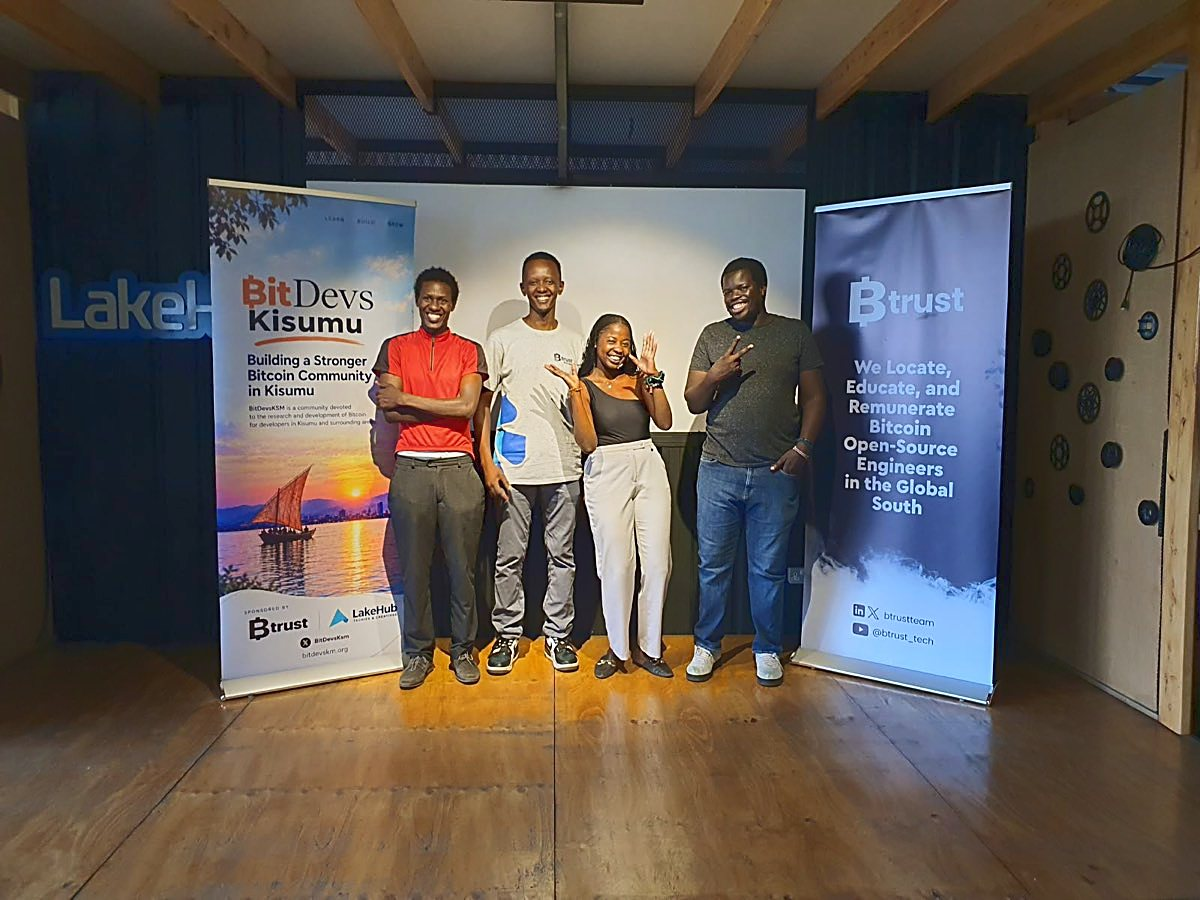
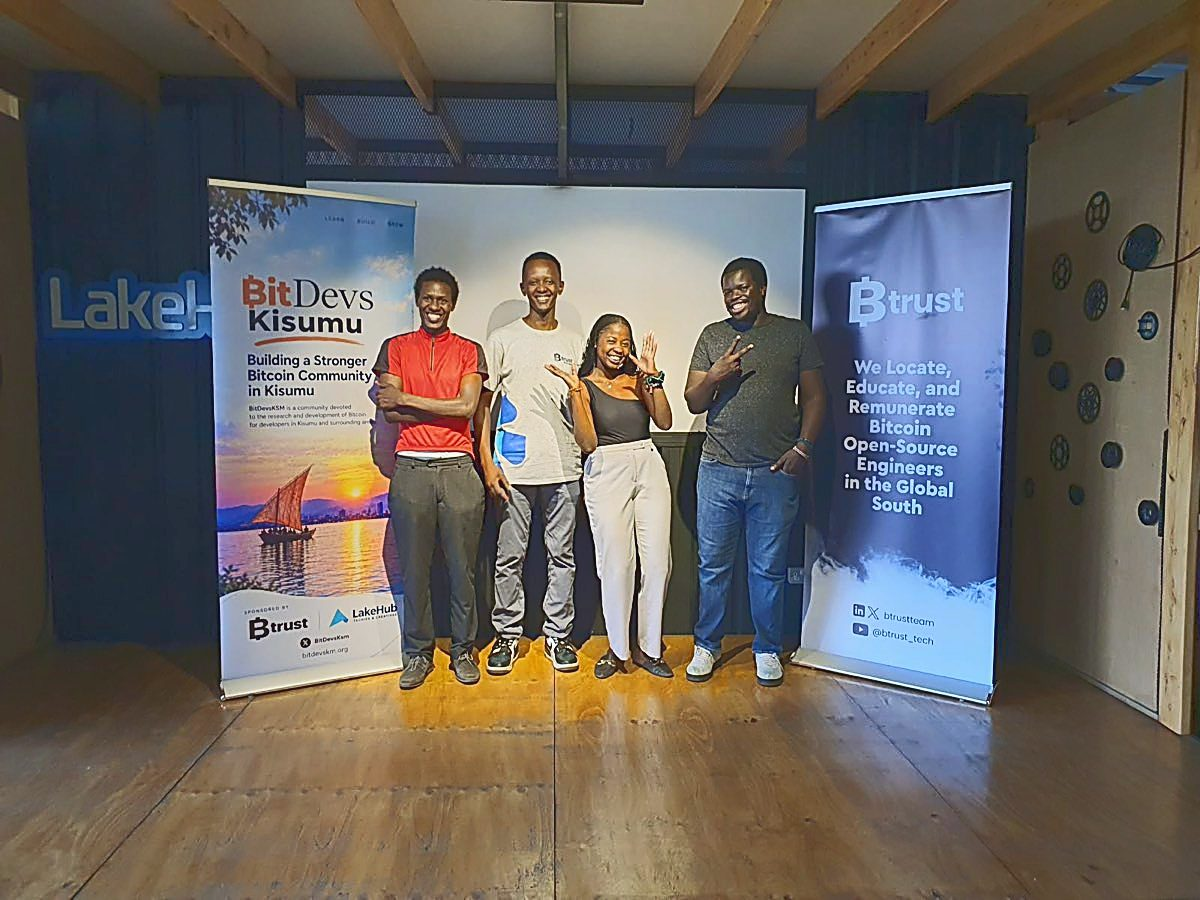
Friends: retouch group photos and polish page UI (#344)

diff --git a/friends.html b/friends.html
@@ -68,24 +68,24 @@ h3{font:800 1.15rem/1.25 'Bricolage Grotesque',sans-serif;margin:0}
 @media (prefers-reduced-motion:reduce){*,*::before,*::after{animation:none!important;transition:none!important;scroll-behavior:auto!important}}
 @media (prefers-reduced-motion:no-preference){html{scroll-behavior:smooth}.top,.tabs{transition:box-shadow .25s ease}body.scrolled .top,body.scrolled .tabs{box-shadow:0 8px 22px -12px rgba(15,27,45,.45)}.btn,.topnav a{transition:background-color .18s ease,color .18s ease,box-shadow .18s ease}.cards .links a,.more a,.foot nav a,.pager a{transition:color .18s ease}.more a{display:inline-block;transition:transform .18s ease,color .18s ease}.more a:hover{transform:translateX(4px)}details{interpolate-size:allow-keywords}details::details-content{transition:height .25s ease}}
 .photo{margin:0 0 1rem;max-width:56rem}
-.photo img{display:block;width:100%;height:auto;border-radius:1rem;border:2px solid var(--ink);box-shadow:0 18px 40px -18px rgba(15,27,45,.35);background:var(--ink)}
+.photo img{display:block;width:100%;height:auto;border-radius:1.25rem;border:2px solid var(--ink);box-shadow:0 1px 2px rgba(15,27,45,.18),0 24px 48px -24px rgba(15,27,45,.38);background:var(--ink)}
 .photo .credit{white-space:nowrap}
-.photo figcaption{color:var(--muted);font-size:.95rem;margin-top:.6rem;max-width:46rem}
+.photo figcaption{color:var(--muted);font-size:.95rem;line-height:1.5;margin:.5rem 0 0;max-width:46rem}
 .photo.mid{margin-top:2rem}
 .friends{list-style:none;padding:0;margin:0;display:grid;grid-template-columns:repeat(auto-fit,minmax(18rem,1fr));gap:1rem}
-.friends>li{background:var(--paper);border:2px solid var(--ink);border-radius:1rem;padding:1.1rem;display:flex;flex-direction:column;gap:.6rem;box-shadow:0 10px 24px -18px rgba(15,27,45,.35)}
+.friends>li{background:var(--paper);border:2px solid var(--ink);border-radius:1rem;padding:1.1rem;display:flex;flex-direction:column;gap:.6rem;box-shadow:0 1px 2px rgba(15,27,45,.12),0 12px 28px -20px rgba(15,27,45,.35)}
 .friends>li:hover{box-shadow:5px 5px 0 var(--ink)}
 .friends .who{display:flex;align-items:center;gap:.8rem}
-.friends .who img{width:56px;height:56px;border-radius:.8rem;border:1px solid var(--line);background:#fff;flex:none;object-fit:contain;padding:3px}
+.friends .who img{width:56px;height:56px;border-radius:.8rem;border:1px solid var(--line);background:#fff;flex:none;object-fit:contain;padding:4px}
 .friends .role{font-size:.8rem;font-weight:700;color:var(--btc-text);text-transform:uppercase;letter-spacing:.04em}
 .friends p{margin:0;color:var(--muted);font-size:.97rem}
 .links{display:flex;flex-wrap:wrap;gap:.3rem 1rem;font-weight:600;margin-top:auto}
 .two{display:grid;grid-template-columns:repeat(auto-fit,minmax(18rem,1fr));gap:1rem}
-.side{background:var(--paper);border:2px solid var(--ink);border-radius:1rem;padding:1.1rem;display:flex;flex-direction:column;gap:.5rem;box-shadow:0 10px 24px -18px rgba(15,27,45,.35)}
+.side{background:var(--paper);border:2px solid var(--ink);border-radius:1rem;padding:1.1rem;display:flex;flex-direction:column;gap:.5rem;box-shadow:0 1px 2px rgba(15,27,45,.12),0 12px 28px -20px rgba(15,27,45,.35)}
 .side:hover{box-shadow:5px 5px 0 var(--ink)}
-@media (prefers-reduced-motion:no-preference){.friends>li,.side{transition:box-shadow .18s ease}}
+@media (prefers-reduced-motion:no-preference){.friends>li,.side{transition:box-shadow .18s ease,transform .18s ease}.friends>li:hover,.side:hover{transform:translateY(-2px)}}
 .side h3{display:flex;align-items:center;gap:.5rem;font-size:1.25rem}
-.side h3 img{border-radius:.5rem;border:1px solid var(--line);background:#fff;padding:2px}
+.side h3 img{border-radius:.5rem;border:1px solid var(--line);background:#fff;padding:4px}
 .side p{margin:0;color:var(--muted)}
 .side .tag{align-self:flex-start}
 .sm{font-size:.92rem}
@@ -99,7 +99,7 @@ h3{font:800 1.15rem/1.25 'Bricolage Grotesque',sans-serif;margin:0}
 </head>
 <body>
 <div class="wrap">
-  <div class="top"><a href="/" aria-label="Altradits home"><img src="/assets/logo.png" alt="Altradits" width="325" height="119"></a><nav class="topnav" aria-label="Main"><a href="/library">Library</a><a href="/friends" aria-current="page">Friends</a><a class="launch" href="/yebente">Open Ye₿ente</a></nav></div>
+  <div class="top"><a href="/" aria-label="Altradits home"><img src="/assets/logo.png" alt="Altradits" width="325" height="119" decoding="async"></a><nav class="topnav" aria-label="Main"><a href="/library">Library</a><a href="/friends" aria-current="page">Friends</a><a class="launch" href="/yebente">Open Ye₿ente</a></nav></div>
 
   <header class="hero">
     <h1>The teams behind <em>your wallet.</em></h1>
@@ -113,7 +113,7 @@ h3{font:800 1.15rem/1.25 'Bricolage Grotesque',sans-serif;margin:0}
   </figure>
 
   <h2>Who makes your wallet work</h2>
-  <ul class="friends"><li><div class="who"><img src="/assets/players/btrust.png" alt="Btrust logo" width="56" height="56" loading="lazy"><div><h3>Btrust</h3><span class="role">Backs the learning community</span></div></div><p>Btrust sponsors BitDevs Kisumu, where Ye₿ente's builder learns Bitcoin alongside other developers. Better builders, better wallet.</p><div class="links"><a href="https://www.btrust.tech/">Visit Btrust</a></div></li><li><div class="who"><img src="/assets/players/minmo.png" alt="Minmo logo" width="56" height="56" loading="lazy"><div><h3>Minmo</h3><span class="role">The person-to-person model</span></div></div><p>Minmo's agents help their own communities buy and sell bitcoin, person to person. That is the model for how Ye₿ente spreads. Their team also mentored Ye₿ente's builder into open source.</p><div class="links"><a href="https://minmo.to/">Visit Minmo</a></div></li><li><div class="who"><img src="/assets/players/tando.png" alt="Tando logo" width="56" height="56" loading="lazy"><div><h3>Tando</h3><span class="role">Turns your sats into M-Pesa</span></div></div><p>When you send sats to a phone number or till, Tando's rails carry them the last mile. Every M-Pesa number and till, reachable from your wallet.</p><div class="links"><a href="https://tando.me/">Visit Tando</a></div></li><li><div class="who"><img src="/assets/players/weventure.png" alt="weVenture Hub logo" width="56" height="56" loading="lazy"><div><h3>weVenture Hub</h3><span class="role">Trained your wallet's builder</span></div></div><p>This startup hub in Addis Ababa hosted the Lightning Developer Bootcamp where Ye₿ente's builder learned routing and channel management: the skills your payments run on.</p><div class="links"><a href="https://weventurehub.com/">Visit weVenture Hub</a></div></li><li><div class="who"><img src="/assets/players/wallet-of-satoshi.png" alt="Wallet of Satoshi logo" width="56" height="56" loading="lazy"><div><h3>Wallet of Satoshi</h3><span class="role">The simplicity bar, and the backup</span></div></div><p>The simplest Lightning wallet in the world. It is also Ye₿ente's fallback when our own node is down, so your payments still go through.</p><div class="links"><a href="https://www.walletofsatoshi.com/">Visit Wallet of Satoshi</a></div></li><li><div class="who"><img src="/assets/players/lakehub.png" alt="LakeHub logo" width="56" height="56" loading="lazy"><div><h3>LakeHub</h3><span class="role">Home of the learning community</span></div></div><p>BitDevs Kisumu meets at LakeHub, which also backs it. Ye₿ente keeps improving there, alongside more than 100 developers.</p><div class="links"><a href="https://lakehub.co.ke/">Visit LakeHub</a></div></li><li><div class="who"><img src="/assets/players/my-first-bitcoin.png" alt="My First Bitcoin logo" width="56" height="56" loading="lazy"><div><h3>My First Bitcoin</h3><span class="role">Free education, worldwide</span></div></div><p>Makers of free Bitcoin education used around the world. In conversation about growing it in Kisumu next, with developers from LakeHub.</p><div class="links"><a href="https://myfirstbitcoin.io/">Visit My First Bitcoin</a></div></li></ul>
+  <ul class="friends"><li><div class="who"><img src="/assets/players/btrust.png" alt="Btrust logo" width="56" height="56" loading="lazy" decoding="async"><div><h3>Btrust</h3><span class="role">Backs the learning community</span></div></div><p>Btrust sponsors BitDevs Kisumu, where Ye₿ente's builder learns Bitcoin alongside other developers. Better builders, better wallet.</p><div class="links"><a href="https://www.btrust.tech/">Visit Btrust</a></div></li><li><div class="who"><img src="/assets/players/minmo.png" alt="Minmo logo" width="56" height="56" loading="lazy" decoding="async"><div><h3>Minmo</h3><span class="role">The person-to-person model</span></div></div><p>Minmo's agents help their own communities buy and sell bitcoin, person to person. That is the model for how Ye₿ente spreads. Their team also mentored Ye₿ente's builder into open source.</p><div class="links"><a href="https://minmo.to/">Visit Minmo</a></div></li><li><div class="who"><img src="/assets/players/tando.png" alt="Tando logo" width="56" height="56" loading="lazy" decoding="async"><div><h3>Tando</h3><span class="role">Turns your sats into M-Pesa</span></div></div><p>When you send sats to a phone number or till, Tando's rails carry them the last mile. Every M-Pesa number and till, reachable from your wallet.</p><div class="links"><a href="https://tando.me/">Visit Tando</a></div></li><li><div class="who"><img src="/assets/players/weventure.png" alt="weVenture Hub logo" width="56" height="56" loading="lazy" decoding="async"><div><h3>weVenture Hub</h3><span class="role">Trained your wallet's builder</span></div></div><p>This startup hub in Addis Ababa hosted the Lightning Developer Bootcamp where Ye₿ente's builder learned routing and channel management: the skills your payments run on.</p><div class="links"><a href="https://weventurehub.com/">Visit weVenture Hub</a></div></li><li><div class="who"><img src="/assets/players/wallet-of-satoshi.png" alt="Wallet of Satoshi logo" width="56" height="56" loading="lazy" decoding="async"><div><h3>Wallet of Satoshi</h3><span class="role">The simplicity bar, and the backup</span></div></div><p>The simplest Lightning wallet in the world. It is also Ye₿ente's fallback when our own node is down, so your payments still go through.</p><div class="links"><a href="https://www.walletofsatoshi.com/">Visit Wallet of Satoshi</a></div></li><li><div class="who"><img src="/assets/players/lakehub.png" alt="LakeHub logo" width="56" height="56" loading="lazy" decoding="async"><div><h3>LakeHub</h3><span class="role">Home of the learning community</span></div></div><p>BitDevs Kisumu meets at LakeHub, which also backs it. Ye₿ente keeps improving there, alongside more than 100 developers.</p><div class="links"><a href="https://lakehub.co.ke/">Visit LakeHub</a></div></li><li><div class="who"><img src="/assets/players/my-first-bitcoin.png" alt="My First Bitcoin logo" width="56" height="56" loading="lazy" decoding="async"><div><h3>My First Bitcoin</h3><span class="role">Free education, worldwide</span></div></div><p>Makers of free Bitcoin education used around the world. In conversation about growing it in Kisumu next, with developers from LakeHub.</p><div class="links"><a href="https://myfirstbitcoin.io/">Visit My First Bitcoin</a></div></li></ul>
 
   <figure class="photo mid">
     <img src="/assets/addis-lightning-bootcamp.jpg" alt="Five developers with laptops talk on wooden steps at the Lightning Developer Bootcamp in Addis Ababa." width="1200" height="799" loading="lazy" decoding="async">
@@ -125,7 +125,7 @@ h3{font:800 1.15rem/1.25 'Bricolage Grotesque',sans-serif;margin:0}
   <div class="two">
     <section class="side">
       <span class="tag">Running · sponsored by Btrust</span>
-      <h3><img src="/assets/players/bitdevs-kisumu.png" alt="" width="40" height="40"> BitDevs Kisumu</h3>
+      <h3><img src="/assets/players/bitdevs-kisumu.png" alt="" width="40" height="40" loading="lazy" decoding="async"> BitDevs Kisumu</h3>
       <p><b>For developers.</b> Socratic seminars on Bitcoin Core pull requests, BIPs and Lightning. Nobody lectures; everyone brings something.</p>
       <p>Co-founded by Ye₿ente's builder, Stanley. Sponsored by Btrust, hosted at LakeHub.</p>
       <p>Stanley's first talk there: <a href="/bitcoin-core">setting up Bitcoin Core</a>, now a free step-by-step guide.</p>
@@ -142,10 +142,10 @@ h3{font:800 1.15rem/1.25 'Bricolage Grotesque',sans-serif;margin:0}
   <h2>Simple, because others showed the way</h2>
   <p class="intro">Ye₿ente is built in Kisumu, learning from teams who made Bitcoin easy to start. Thank you.</p>
   <ul class="friends four">
-    <li><div class="who"><img src="/assets/players/wallet-of-satoshi.png" alt="" width="56" height="56"><div><span class="role">Australia · since 2019</span><br><b><a href="https://www.walletofsatoshi.com/">Wallet of Satoshi</a></b></div></div><p>A Lightning wallet built to be simple: "Bitcoin. Simple." Your first sats in a minute.</p><p><b>For your wallet:</b> the bar for simplicity: open and pay in a minute.</p></li>
-    <li><div class="who"><img src="/assets/players/bitika.png" alt="" width="56" height="56"><div><span class="role">Nairobi, Kenya</span><br><b><a href="https://bitika.xyz/">Bitika</a></b></div></div><p>Buy Bitcoin with shillings over M-Pesa or Airtel, from KES 10, with no account.</p><p><b>For your wallet:</b> the bar for buying small: start with KES 10, not a bank form.</p></li>
-    <li><div class="who"><img src="/assets/players/tando.png" alt="" width="56" height="56"><div><span class="role">Kenya · since 2024</span><br><b><a href="https://tando.me/">Tando</a></b></div></div><p>Turns M-Pesa numbers and tills into Lightning payments, so a Kenyan vendor can be paid in Bitcoin without changing anything.</p><p><b>For your wallet:</b> powers Send Mobile: every M-Pesa number and till.</p></li>
-    <li><div class="who"><img src="/assets/players/minmo.png" alt="" width="56" height="56"><div><span class="role">Kenya · since 2025</span><br><b><a href="https://minmo.to/">Minmo</a></b></div></div><p>Started as a tool for Bitsacco members. Now agents serve their own community, buying and selling Bitcoin with people they know.</p><p><b>For your wallet:</b> the model for spreading: person to person, through people you trust.</p></li>
+    <li><div class="who"><img src="/assets/players/wallet-of-satoshi.png" alt="" width="56" height="56" loading="lazy" decoding="async"><div><span class="role">Australia · since 2019</span><br><b><a href="https://www.walletofsatoshi.com/">Wallet of Satoshi</a></b></div></div><p>A Lightning wallet built to be simple: "Bitcoin. Simple." Your first sats in a minute.</p><p><b>For your wallet:</b> the bar for simplicity: open and pay in a minute.</p></li>
+    <li><div class="who"><img src="/assets/players/bitika.png" alt="" width="56" height="56" loading="lazy" decoding="async"><div><span class="role">Nairobi, Kenya</span><br><b><a href="https://bitika.xyz/">Bitika</a></b></div></div><p>Buy Bitcoin with shillings over M-Pesa or Airtel, from KES 10, with no account.</p><p><b>For your wallet:</b> the bar for buying small: start with KES 10, not a bank form.</p></li>
+    <li><div class="who"><img src="/assets/players/tando.png" alt="" width="56" height="56" loading="lazy" decoding="async"><div><span class="role">Kenya · since 2024</span><br><b><a href="https://tando.me/">Tando</a></b></div></div><p>Turns M-Pesa numbers and tills into Lightning payments, so a Kenyan vendor can be paid in Bitcoin without changing anything.</p><p><b>For your wallet:</b> powers Send Mobile: every M-Pesa number and till.</p></li>
+    <li><div class="who"><img src="/assets/players/minmo.png" alt="" width="56" height="56" loading="lazy" decoding="async"><div><span class="role">Kenya · since 2025</span><br><b><a href="https://minmo.to/">Minmo</a></b></div></div><p>Started as a tool for Bitsacco members. Now agents serve their own community, buying and selling Bitcoin with people they know.</p><p><b>For your wallet:</b> the model for spreading: person to person, through people you trust.</p></li>
   </ul>
   <p class="intro gap">Built in <b>Kisumu</b>, Kenya's third-largest city, on the shore of Lake Victoria, shaped by teams from Australia to El Salvador to Kenya. The goals, not claims: households start on Ye₿ente, then learn to hold their own keys; traders get paid in sats through the M-Pesa tills they already use; developers learn at BitDevs Kisumu and contribute to open source; everyone learns free through Bitcoin Kisumu.</p>
   <p class="intro sm">Sources: <a href="https://apps.apple.com/app/id1438599608">Wallet of Satoshi on the App Store</a> · <a href="https://bitika.xyz/">bitika.xyz</a> · <a href="https://www.caplight.com/company/bitika">Caplight: Bitika</a> · <a href="https://blink.sv/blog/tando-bitcoin-adoption-in-kenya">Blink: Tando in Kenya</a> · <a href="https://blink.sv/blog/40-million-kenyans-now-have-a-bitcoin-lightning-address">Blink: 40 million Kenyans have a Lightning address</a> · <a href="https://www.fedi.xyz/blog/buy-bitcoin-through-someone-you-trust-with-the-minmo-mini-app-on-fedi">Fedi: Minmo</a></p>
